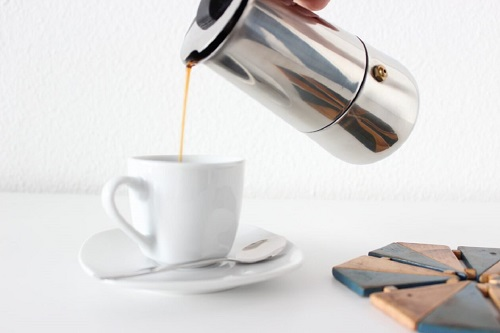
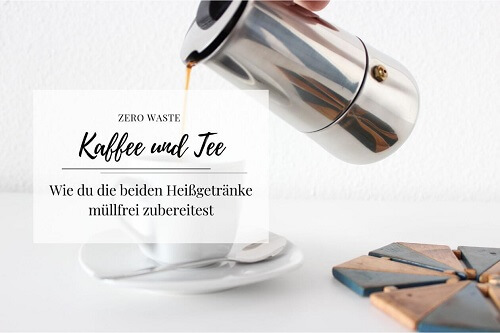
updated post

diff --git a/_posts/2017/2017-03-18-zero-waste-kaffee-und-tee-ohne-muell.md b/_posts/2017/2017-03-18-zero-waste-kaffee-und-tee-ohne-muell.md
@@ -1,21 +1,19 @@
 ---
 layout: post
-title: "Kaffee und Tee ohne Müll"
+title: "Zero Waste Kaffee und Tee ohne Plastik"
 subtitle: "Wie du die beiden Heißgetränke ganz einfach müllfrei zubereitest"
 date: 2017-03-18
 categories: [Zero Waste]
-description: "Es gibt schier unendliche Möglichkeiten Kaffee und Tee ohne Müll zuzubereiten. Dazu braucht man nur die richtigen Alternativen."
-keywords: [Kaffee und Tee ohne Müll]
+description: "Es gibt schier unendliche Möglichkeiten Kaffee ohne Plastik und müllfrei zuzubereiten. Dazu gibt es unendlich viele Zero Waste Alternativen."
+keywords: [Kaffee ohne Plastik, Zero Waste Tee, Kaffee und Tee ohne Müll]
 image: "/assets/title-images/2017/2017-03-18-zero-waste-kaffee-und-tee-ohne-muell.jpg"
 author: sarah-lettmann
 affiliate: false
 ---
-Kaffee und Tee gehören einfach zu unserem Leben. Wie wir uns in vielen Dingen ähneln, haben wir ebenso auch unterschiedliche Vorlieben. Mein Freund braucht seinen morgendlichen Kaffee und trinkt ihn auch sonst gern zwischendurch. Ich hingegen habe dem Kaffee abgeschworen und bin zur Teetrinkerin mutiert. Glücklicherweise gibt es schier unendliche Möglichkeiten Kaffee und Tee ohne Müll zuzubereiten.
-
-Warum mir Tee lieber ist: Ich fühle mich nach Tee nicht dehydriert, wie es bei Kaffee der Fall ist und es gibt VIEL mehr Geschmacksvariationen. Besonders wenn man mit Nussmilch und Früchten rumexperimentiert. Deshalb trinke ich ihn inzwischen in verschiedenen Variationen morgens und abends. Im Sommer gibt's dann eben Eistee.
+Kaffee und Tee gehören einfach zu unserem Leben. Viele trinken sehr gerne Kaffee oder brauchen ihn sogar, um produktiv zu sein. Ich hingegen trinke dafür lieber Tee. Glücklicherweise gibt es schier unendliche Möglichkeiten Tee und Kaffee ohne Plastik und Zero Waste zuzubereiten.
 
 ## Der Klassiker
-Nun aber erstmal zum klassischen Kaffee.
+Der klassische Kaffee aus der Filtermaschine oder mit dem Handfilter zubereitet.
 
 ![Handkaffeemühle](/assets/inpost-images/2017/2017-03-18-kaffeemuehle.jpg "© {{ site.title }}")
 
@@ -23,13 +21,13 @@ Nun aber erstmal zum klassischen Kaffee.
 
 Wir habe eine sehr hübsches, nützliches kleines Ding dafür. Wir kaufen unsere Kaffeebohnen lose und mahlen sie dann nach Bedarf mit der Hand. Den oberen Teil der **Kaffeemühle** kann man abschrauben und auf das untere Gefäß stattdessen einen Deckel schrauben. Als Bonus obendrauf gibt's Armmuckis.
 
-> Den Filter aus Plastik und Nylon habe ich vor etlicher Zeit auf amazon gefunden. Ich konnte damals keinen in Edelstahl finden, heute allerdings bin ich glaube ich schon einmal über so einen gestolpert. Bei Interesse schau dich einfach ein bisschen um.
+Den Filter aus Plastik und Nylon habe ich vor etlicher Zeit auf amazon gefunden. <mark>Ich konnte damals keinen in Edelstahl finden, heute allerdings bin ich schon einmal über so einen gestolpert. Es gibt inzwischen sogar welche aus Bio-Baumwolle, die man einfach in der Maschine waschen kann.</mark>
 
 ![Frisch gemahlener Kaffee](/assets/inpost-images/2017/2017-03-18-frisch-gemahlener-kaffee.jpg "© {{ site.title }}")
 
 ![Kaffeekanne und Handfilter](/assets/inpost-images/2017/2017-03-18-kaffeekanne-und-handfilter.jpg "© {{ site.title }}")
 
-Der Handfilter und die Kanne in wunderschön weißem Porzellan machen echt was her. Eleganter lässt sich Kaffee gar nicht zubereiten.
+Der **Handfilter** und die Kanne in wunderschön weißem Porzellan machen echt was her. Eleganter lässt sich Kaffee gar nicht zubereiten. Natürlich geht das mit einem Mehrweg-Filter aber auch in einer klassischen Kaffeemaschine. Und natürlich kann man statt der Handmühle auch eine elektrische verwenden oder den Kaffee gleich gemahlen kaufen.
 
 ![Kaffeekanne mit aufgesetztem Filter](/assets/inpost-images/2017/2017-03-18-kaffeekanne-mit-filter.jpg "© {{ site.title }}")
 
@@ -41,24 +39,28 @@ Langsames Aufgießen in kreisförmigen Bewegungen lässt den Kaffee schäumen un
 
 Nach dem Genuss kommt die Arbeit. Mit einem kleinen Löffel geben wir die Reste in unseren Biomüll. Alles andere wird dann mit Wasser gut ausgewaschen. Voila, alles ist sauber und kann wieder zurück in den Schrank. Schnell, einfach, unkompliziert.
 
-> Natürlich kannst du auch eine Stempelkanne verwenden. Damit und mit einer Kaffeemühle ist es ebenfalls super einfach Verpackungen und Müll zu vermeiden.
+> Tipp: Kaffeesatz eignet sich sehr gut als Blumendünger oder auch als Komponente in Peelings.
+
+Natürlich kannst du auch eine **Stempelkanne** verwenden. Damit und mit einer Kaffeemühle ist es ebenfalls super einfach Verpackungen und Müll zu vermeiden.
+
+<mark>Übrigens gibt es inzwischen für so gut wie jede Tassimo oder Senseo oder auch andere Kaffemaschinen spezielle Einsätze. Diese kann man einfach mit Kaffee befüllen und immer wieder verwenden. Aber ich würde dir sowieso von solchen Maschinen abraten.</mark> Der Kaffee daraus ist sehr teuer und du kannst das gleiche Ergebnis auch mit normalem Kaffee, Espresso, einem Milchaufschäumer und Sirups erreichen.
+
+Wenn du gerne einen Karamell-Macchiato trinkst, dann kaufe dir einen Karamell-Sirup (im Glas von Monin zum Beispiel), koche eine Kanne Espresso, bereite Milchschaum zu und du hast das gleiche Ergebnis für wenige Cent.
 
 ## Tee
-Jetzt zu meinem Lieblingsgetränk.
+Jetzt zu meinem Lieblingsgetränk. Für dieses solltest du nicht zu Teebeuteln greifen, da diese sehr oft Plastik enthalten.
 
 ![Tee und Mandelmilch](/assets/inpost-images/2017/2017-03-18-tee-und-mandelmilch.jpg "© {{ site.title }}")
 
-Für den Tee verwenden wir **Tee-Eier**. Zwei Stück haben wir davon. Was man bei uns immer im Regal findet sind Schwarzer und Grüner Tee. Seit wir in Irland waren, trinke ich meinen Schwarzen Tee auch mit Milch. Neuste Entdeckung (oder besser: letztens zum ersten Mal selbst gemacht): Hafermilch und Mandelmilch. Schmecken super im Tee!!
+Für den Tee verwenden wir **Tee-Eier**. Zwei Stück haben wir davon. Was man bei uns immer im Regal findet sind Schwarzer und Grüner Tee. Seit wir in Irland waren, trinke ich meinen Schwarzen Tee auch mit Milch. Auch Hafermilch und Mandelmilch schmecken super im Tee.
 
 _Über Nuss- und Pflanzenmilch werde ich dir nach gesammelten Erfahrungen in separaten Artikeln berichten._
 
 ![Tee im Teeei](/assets/inpost-images/2017/2017-03-18-tee-im-teeei.jpg "© {{ site.title }}")
 
-Falls du losen Tee kaufen willst, sei dir eins vorher gesagt: Er ist intensiver als alles was man aus Teebeuteln so kennt und schmeckt auch ein wenig anders hier und da. Das ist aber einfach eine Sache der Gewohnheit.
+Falls du losen Tee kaufst, sei dir eins vorher gesagt: Er ist intensiver als alles was man aus Teebeuteln so kennt und schmeckt auch ein wenig anders hier und da. Das ist aber einfach eine Sache der Gewohnheit.
 
-Nachdem der Tee gezogen ist, geben wir den Rest der Blätter in den Biomüll. Das Tee-Ei spülen wir dann noch gut aus und schon ist man fertig.
-
-> Nussmilch und Pflanzenmilch ist cremig und schaumig zugleich im Tee. Scheint mir als könnte man sie auch gut aufschäumen und fancy Variationen damit kreieren. Falls du Ideen oder Tipps dazu hast, immer her damit.
+Nachdem der Tee gezogen ist, geben wir den Rest der Blätter in den Biomüll. Das Tee-Ei spülen wir dann noch gut aus und schon ist man fertig. Statt einem Tee-Ei für einzelne Tassen, gibt es übrigens auch Teekannen, die ein Sieb für losen Tee haben.
 
 ![Fertiger Tee](/assets/inpost-images/2017/2017-03-18-fertiger-tee.jpg "© {{ site.title }}")
 
@@ -69,7 +71,7 @@ Für den kleinen Koffein-Kick zwischendurch ist Espresso ideal. Wenn ich denn ei
 
 ![Espressokanne mit Tassen](/assets/inpost-images/2017/2017-03-18-espressokanne-mit-tasse.jpg "© {{ site.title }}")
 
-> In solchen kleinen Espresso Kännchen lassen sich perfekt zwei Tassen zubereiten (oder ein Doppelter, wenn du magst). Unsere ist von der modernen Sorte, es gibt aber noch die klassischen, die einen vom Aussehen her schon an Italien erinnern.
+In solchen kleinen **Espresso-Kännchen** lassen sich perfekt zwei Tassen zubereiten (oder ein Doppelter, wenn du magst). Unsere ist von der modernen Sorte, es gibt aber noch die klassischen, die einen vom Aussehen her schon an Italien erinnern.
 
 ![Espressokanne auseinandergebaut](/assets/inpost-images/2017/2017-03-18-espressokanne-auseinandergebaut.jpg "© {{ site.title }}")
 
@@ -77,18 +79,27 @@ Für den kleinen Koffein-Kick zwischendurch ist Espresso ideal. Wenn ich denn ei
 
 ![Espresso in der Kanne](/assets/inpost-images/2017/2017-03-18-espresso-in-der-kanne.jpg "© {{ site.title }}")
 
-Zuerst fülle ich Wasser in den unteren Teil der Kanne, bis kurz unter das Ventil. In den mittleren Teil kommt dann das gemahlene Pulver, aber nicht fest drücken, sondern nur locker einfüllen. Alles zusammenbauen und auf einer Herdplatte zum Kochen bringen. Wenn ein gluckern zu hören ist und Dampf aufsteigt, die Kanne vom Herd nehmen. Fertig ist herrlicher Espresso wie vom Italiener 🙂 .
+Zuerst fülle ich Wasser in den unteren Teil der Kanne, bis kurz unter das Ventil. In den mittleren Teil kommt dann das gemahlene Pulver, aber nicht fest drücken, sondern nur locker einfüllen. Alles zusammenbauen und auf einer Herdplatte zum Kochen bringen. Wenn ein gluckern zu hören ist und Dampf aufsteigt, die Kanne vom Herd nehmen. Fertig ist herrlicher Espresso wie vom Italiener.
 
 ![Fertiger Espresso](/assets/inpost-images/2017/2017-03-18-fertiger-espresso.jpg "© {{ site.title }}")
 
+Die meisten Kaffeesorten werden übrigens aus einer bestimmten Zusammensetzung von Espresso und Milch/Milchschaum zubereitet. <mark>Wenn du also einen Milchaufschäumer hast und eine Espressokanne, dann kannst du dir Milchkaffee, Latte Macchiato, Cappuccino und viele andere Varianten einfach zu Hause zubereiten.</mark>
+
 ## Werde kreativ
-Zusätzlich zu dem oben schon gezeigten Kaffee-Zubereitungs-Utensilien haben wir noch einen kleinen Handmilchaufschäumer. So können wir so ziemlich alle Kaffee- und Tee-Variationen herstellen, die es gibt.
+Zusätzlich zu dem oben schon gezeigten Kaffee-Zubereitungs-Utensilien haben wir noch einen kleinen **Handmilchaufschäumer**. So können wir so ziemlich alle Kaffee- und Tee-Variationen herstellen, die es gibt.
 
 Für den Milchschaum erhitzen wir Milch in einem kleinen Topf und halten dann den Milchaufschäumer rein. Durch hin- und herbewegen wird das Resultat noch besser und auch wenn du fettarme Milch verwendest (wir nehmen trotzdem unsere normale Milch, das funktioniert auch).
 
-Cappuccino oder Milchkaffee kannst du dann ganz leicht durch verschiedene Anteile an Espresso und Milch herstellen.
+Cappuccino oder Milchkaffee kannst du dann ganz leicht durch verschiedene Anteile an Espresso und Milch herstellen. Mit dem Aufschäumen von Pflanzenmilch habe ich leider noch keine Erfahrungen.
 
-Zu dem Aufschäumen von Pflanzenmilch habe ich leider noch keine Erfahrungen.
+## Zusammenfassung
+- Mehrweg-Kaffefilter aus Baumwolle, Hartplastik oder Edelstahl für den Handfilter oder die Kaffeemaschine verwenden.
+- Für spezielle Kaffemaschinen wie Senseo gibt es ebenfalls Mehrwegbehältnisse.
+- Eine Espressokanne und ein Milchaufschäumer ermöglichen es dir so gut wie alle Kaffee-Variationen zu Hause nachzumachen.
+- Die Stempelkanne ist eine einfache und schnelle Möglichkeit müllfrei Kaffee zu machen. Auch Tee kannst du in ihr zubereiten.
+- Für Tee greife zu Tee-Eiern oder zu einer Kanne mit Teesieb.
+
+&nbsp;
 
 Weitere Alternativen und mehr zu Zero Waste findest du hier:
 
@@ -98,6 +109,6 @@ Weitere Alternativen und mehr zu Zero Waste findest du hier:
 
 [8 Fragen zum Unverpackt Einkaufen](/blog/8-fragen-zum-unverpackt-einkaufen/)
 
-Ich wünsche ich dir viel Spaß beim Ausprobieren und Genießen.
+Ich wünsche dir viel Spaß beim Ausprobieren und Genießen.
 
 \- Sarah
